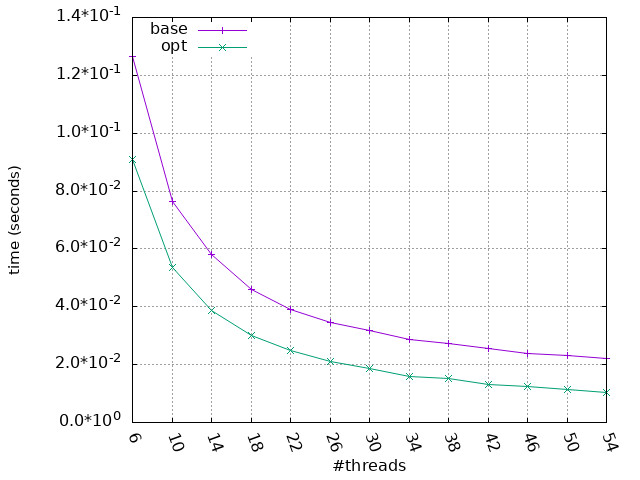
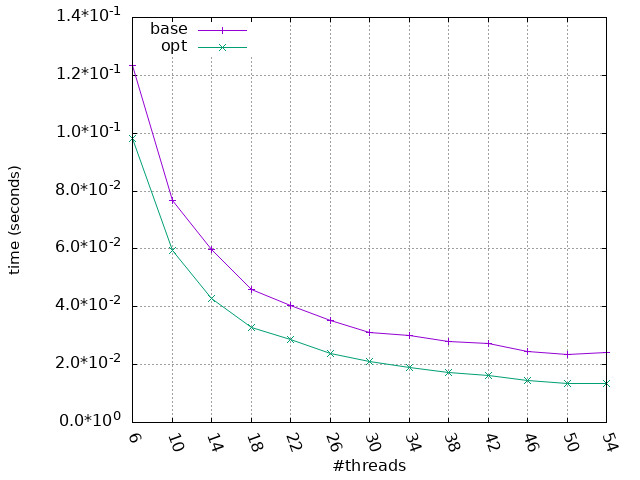
added check to check over sequential case changed kmp_affinity new txt and jpeg

diff --git a/code_rows.c b/code_rows.c
@@ -3,7 +3,7 @@
 
 #define N 1024
 
-double OUT[N][N], IN[N][N], W[N][N], OUT0[N][N];
+double OUT[N][N], IN[N][N], W[N][N], OUT0[N][N], check[N][N];
 
 void init()
 {
@@ -24,12 +24,26 @@ int cmp (int k)
   for (int i=k; (i<N-k && equal); i++) {
     for (int j=k; (j<N-k && equal); k++) {
 	//printf("  %.2f %.2f   ", OUT0[i][k], OUT[i][k]);
-	if (OUT0[i][j] != OUT[i][j])
+	if ((check[i][j] != OUT0[i][j]) ||
+	    (check[i][j] != OUT[i][j]))
 		equal=0;
     }
     //printf("\n");
   }
   return equal;
+}
+void base_seq(int k)
+{
+  for (int i=k; i<N-k; i++)
+    for (int j=k; j<N-k; j++) {
+       check[i][j] = 0;
+// Compact representation shown below.
+// Loops (ii,jj) are fully unrolled for
+// each value of k generated in Fig. 1(b)
+       for (int ii=-k; ii<=k; ii++)
+         for (int jj=-k; jj<=k; jj++)
+             check[i][j] += IN[i+ii][j+jj]*W[k+ii][k+jj];
+    }
 }
 
 void base(int k)
@@ -88,6 +102,8 @@ int main(int argc, char *argv[])
 	if (argc>1) k = atoi(argv[1]);
         
 	init();
+	base_seq (k);
+	
 	ini=omp_get_wtime();
 	base (k);
 	end=omp_get_wtime();
